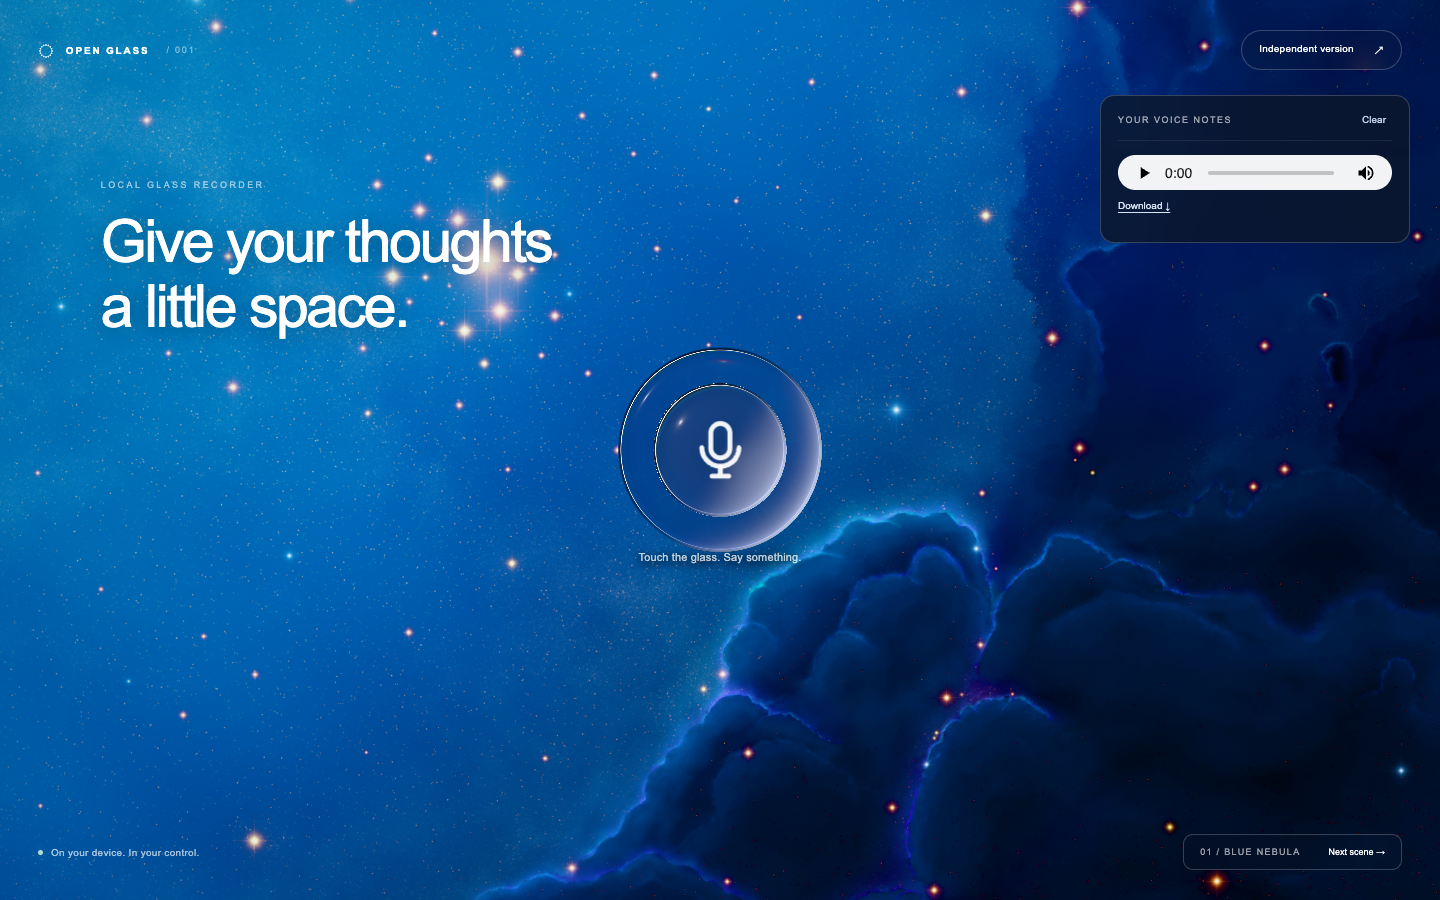
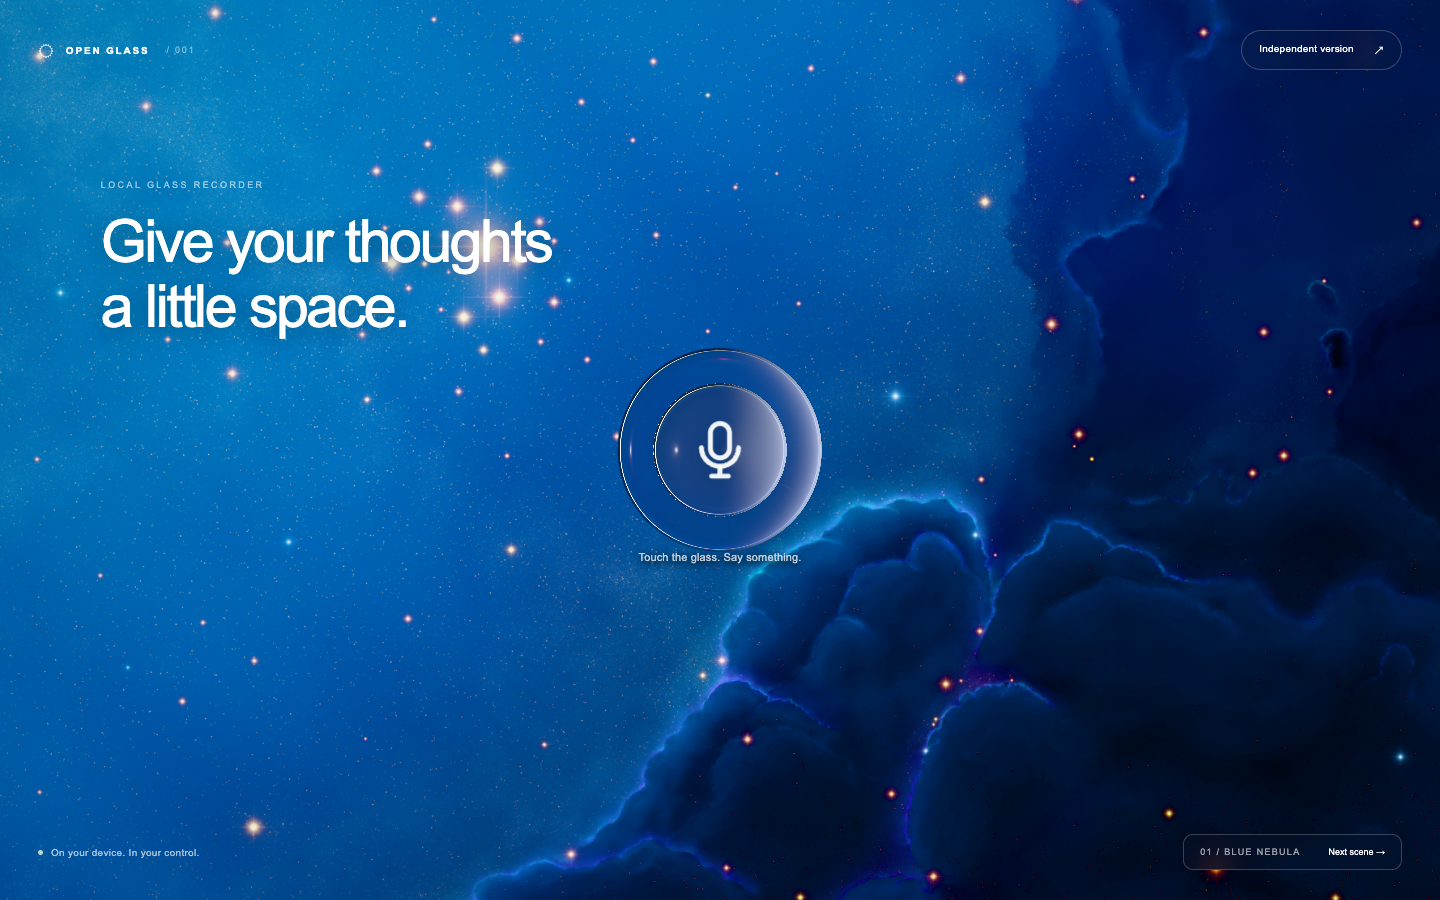
docs: show approved recorder across three wallpaper screenshots

diff --git a/README.md b/README.md
@@ -5,9 +5,23 @@
 - **Approved reference demo**: restores the earlier recovered rendering engine, circular glass surround, raised inner lens, pointer deformation and audio-reactive recording animation. The recovered engine has separate third-party rights; see [THIRD_PARTY.md](THIRD_PARTY.md).
 - **Independent MIT component**: the freshly written vanilla JavaScript/WebGL2 implementation remains available in `src/recorder.js`, the independent demo, lab and minimal composer example.
 
-[Approved demo](https://himanshuchawla0807-gif.github.io/open-glass-recorder/) · [Chat example](https://himanshuchawla0807-gif.github.io/open-glass-recorder/examples/chat/) · [Independent demo](https://himanshuchawla0807-gif.github.io/open-glass-recorder/independent.html) · [Component lab](https://himanshuchawla0807-gif.github.io/open-glass-recorder/lab.html)
+[Approved demo](https://himanshuchawla0807-gif.github.io/open-glass-recorder/) · [Chat example](https://himanshuchawla0807-gif.github.io/open-glass-recorder/examples/chat/) · [Independent demo](https://himanshuchawla0807-gif.github.io/open-glass-recorder/independent.html)
 
-![Approved glass recorder over a blue nebula](docs/screenshots/approved-demo.png)
+## Wallpaper gallery
+
+The approved recorder with three wallpaper backgrounds from the live demo.
+
+**Blue Nebula**
+
+![Approved glass recorder with Blue Nebula wallpaper](docs/screenshots/approved-demo.png)
+
+**Cosmic Cliffs**
+
+![Approved glass recorder with Cosmic Cliffs wallpaper](docs/screenshots/approved-cosmic-cliffs.png)
+
+**Europa**
+
+![Approved glass recorder with Europa wallpaper](docs/screenshots/approved-europa.png)
 
 ## Why I built this
 
@@ -24,10 +38,6 @@ The default demo restores the circular outer glass and raised mic lens. Recordin
 The chat example embeds the same reference renderer directly into its composer with a navy gradient sampled inside the glass and transparency outside it. Chat replies are local, rule-based placeholders; there is no AI service, transcription or audio upload. Text history persists in browser storage. Audio lives only in the tab.
 
 The full reference-renderer demo is source-available with **unverified application-specific reuse rights**, not an entirely MIT/open-source component. See [license boundaries](THIRD_PARTY.md). For MIT-licensed reusable code, use the independent implementation below.
-
-## Independent component variants
-
-The independent lab has three functional variants and live width, radius, gradient, tint, transparency and motion controls. Copy its configuration for use with `GlassRecorder`. Run `npm run lab` to serve it at http://localhost:8768.
 
 ## Run locally
 
